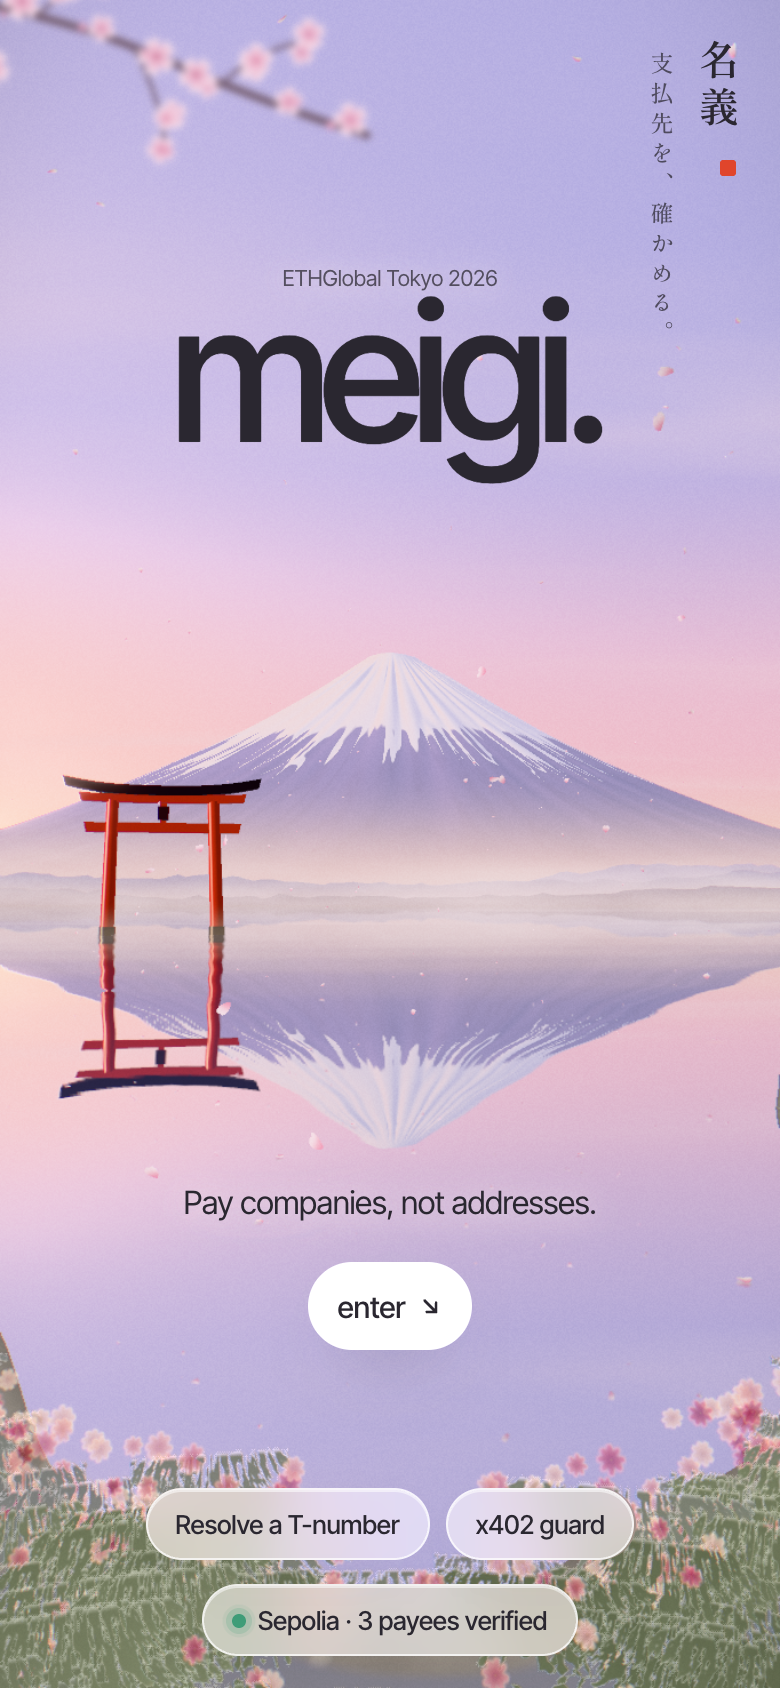
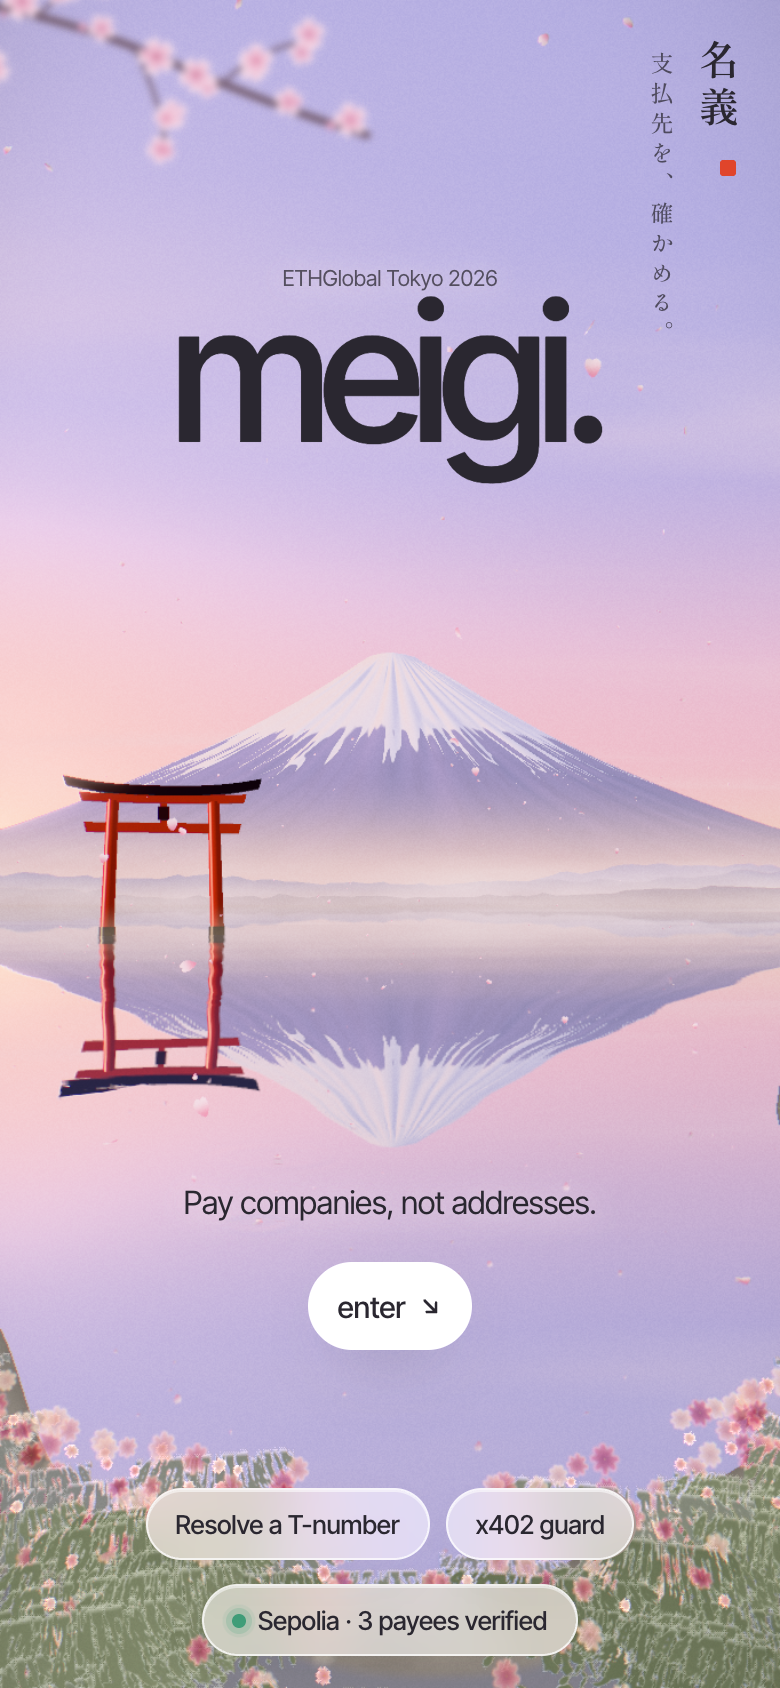
fix(scene): soften the phone bedding and put blush heads between the pills
On phones the bedding clumps are big on screen, so the light on their tops
read as chalky hatching: it is now 60% lower there. A few small, sharp blush
heads join the soft front row in the band under the pills, drawn from their
own random sequence so the rest of the planting is unchanged. The phone hero
screenshot is re-shot.

Claude-Session: https://claude.ai/code/session_01HAsqcAGquPFh83q8WqHVcu

diff --git a/packages/scene/src/garden/gardenLayout.ts b/packages/scene/src/garden/gardenLayout.ts
@@ -1,3 +1,4 @@
+import { Vector3 } from 'three'
 import { seededRandom } from '../shared/noise'
 import { SHORE_TALL, SHORE_WIDE, TALL_ROOM, WIDE_ROOM, drift, fits, heroCamera, inland, type Planter, type ShoreShape } from './shore'
 
@@ -78,6 +79,20 @@ interface Blooms {
 }
 
 /**
+ * Now and then a small, sharp blush head beside a soft front-row one: detail
+ * between the phone's pills. `blush` is its own sequence, so these extra heads
+ * leave the rest of the planting exactly as it was.
+ */
+function addBlush(planter: Planter, blooms: Blooms, near: Vector3, radius: number, blush: () => number): void {
+  if (blush() > 0.45) return
+  const at = new Vector3(near.x + (blush() - 0.5) * 0.14, 0, near.z + (blush() - 0.5) * 0.14)
+  const lift = 0.14 + blush() * 0.22
+  if (!fits(planter, at, lift + radius * 0.5)) return
+  blooms.flowers.push(at.x, at.z, lift, radius * 0.5)
+  blooms.looks.push(0.3 + blush() * 0.16, blush(), 0)
+}
+
+/**
  * Cosmos heads in drifts, floating just over the bedding. Heads shrink
  * towards the hero camera (so the front ones never loom); the nearest row
  * goes to the out-of-focus layer, and only the front edge shows short stems.
@@ -85,6 +100,7 @@ interface Blooms {
 function placeCosmos(planter: Planter, tries: number): Blooms {
   const { random, camera, nearRow } = planter
   const blooms: Blooms = { flowers: [], looks: [], bokeh: [], bokehLook: [] }
+  const blush = seededRandom(20260929)
   for (let i = 0; i < tries; i++) {
     const at = inland(planter, (random() * 2 - 1) * BLOOM, 0.16 + Math.pow(random(), planter.bedFalloff) * 3.7)
     if (random() > 0.1 + 0.9 * drift(at.x, at.z, 7)) continue
@@ -95,6 +111,7 @@ function placeCosmos(planter: Planter, tries: number): Blooms {
     const lift = out ? 0.12 + 0.26 * random() : height
     const radius = (0.026 + random() * 0.016) * Math.min(Math.max(away / (nearRow * 1.35), 0.5), 1) * (out ? 1.4 : 1)
     if ((out && random() > planter.frontRow) || !fits(planter, at, lift + radius)) continue
+    if (out && planter.compact) addBlush(planter, blooms, at, radius, blush)
     const stem = !out && away < nearRow + 1.3 ? 0.02 + random() * 0.03 : 0
     const look = [Math.pow(random(), 0.85), random(), stem]
     if (out) {

diff --git a/packages/scene/src/garden/foliage.ts b/packages/scene/src/garden/foliage.ts
@@ -37,6 +37,7 @@ const fragmentShader = /* glsl */ `
   uniform vec3 uLavender;
   uniform vec3 uSunColor;
   uniform vec3 uHaze;
+  uniform float uTipLight;
   varying vec2 vUv;
   varying float vTint;
   varying float vFar;
@@ -45,15 +46,17 @@ const fragmentShader = /* glsl */ `
     if (paint.a < 0.02) discard;
     vec3 leaf = mix(uMoss, uSage, smoothstep(0.2, 0.8, vTint));
     leaf = mix(leaf, uLavender, smoothstep(0.65, 1.0, vTint) * 0.55);
-    vec3 col = leaf * (0.8 + 0.2 * paint.r) * (0.97 + 0.05 * paint.g);
-    col += uSunColor * 0.05 * smoothstep(0.75, 1.0, paint.r);
+    // Tops catch the light; uTipLight tones that down where it would read as chalky hatching.
+    vec3 col = leaf * (1.0 - 0.2 * uTipLight + 0.2 * uTipLight * paint.r) * (0.97 + 0.05 * paint.g);
+    col += uSunColor * 0.05 * uTipLight * smoothstep(0.75, 1.0, paint.r);
     col = mix(col, uHaze, vFar * 0.5);
     gl_FragColor = vec4(col, paint.a);
     ${OUTPUT_GLSL}
   }
 `
 
-export function createFoliageMaterial(clump: Texture): ShaderMaterial {
+/** `tipLight` scales the light on the clump tops (1 full, lower on phones, where clumps are big on screen). */
+export function createFoliageMaterial(clump: Texture, tipLight: number): ShaderMaterial {
   return new ShaderMaterial({
     uniforms: {
       uTime: { value: 0 },
@@ -63,6 +66,7 @@ export function createFoliageMaterial(clump: Texture): ShaderMaterial {
       uLavender: { value: color('#9D98A9') },
       uSunColor: { value: SUN_COLOR.clone() },
       uHaze: { value: color(HEX.horizon) },
+      uTipLight: { value: tipLight },
     },
     vertexShader,
     fragmentShader,

diff --git a/packages/scene/src/garden/Garden.tsx b/packages/scene/src/garden/Garden.tsx
@@ -47,7 +47,7 @@ function useGardenResources(aspect: number, compact: boolean) {
     () => ({
       ground: { geometry: createGroundGeometry(layout.shore), material: createGroundMaterial(layout.shore) },
       kochia: { geometry: createKochiaGeometry(layout.kochiaTint, compact), material: createKochiaMaterial() },
-      foliage: { geometry: createFoliageGeometry(layout.foliage, layout.foliageShade), material: createFoliageMaterial(clump) },
+      foliage: { geometry: createFoliageGeometry(layout.foliage, layout.foliageShade), material: createFoliageMaterial(clump, compact ? 0.4 : 1) },
       lavender: { geometry: createLavenderGeometry(layout.lavender), material: createLavenderMaterial() },
       cosmos: { geometry: createCosmosGeometry(layout.cosmos, layout.cosmosLook, !compact), material: createCosmosMaterial(sharp, false) },
       bokeh: { geometry: createCosmosGeometry(layout.bokeh, layout.bokehLook, false), material: createCosmosMaterial(bokeh, true) },
